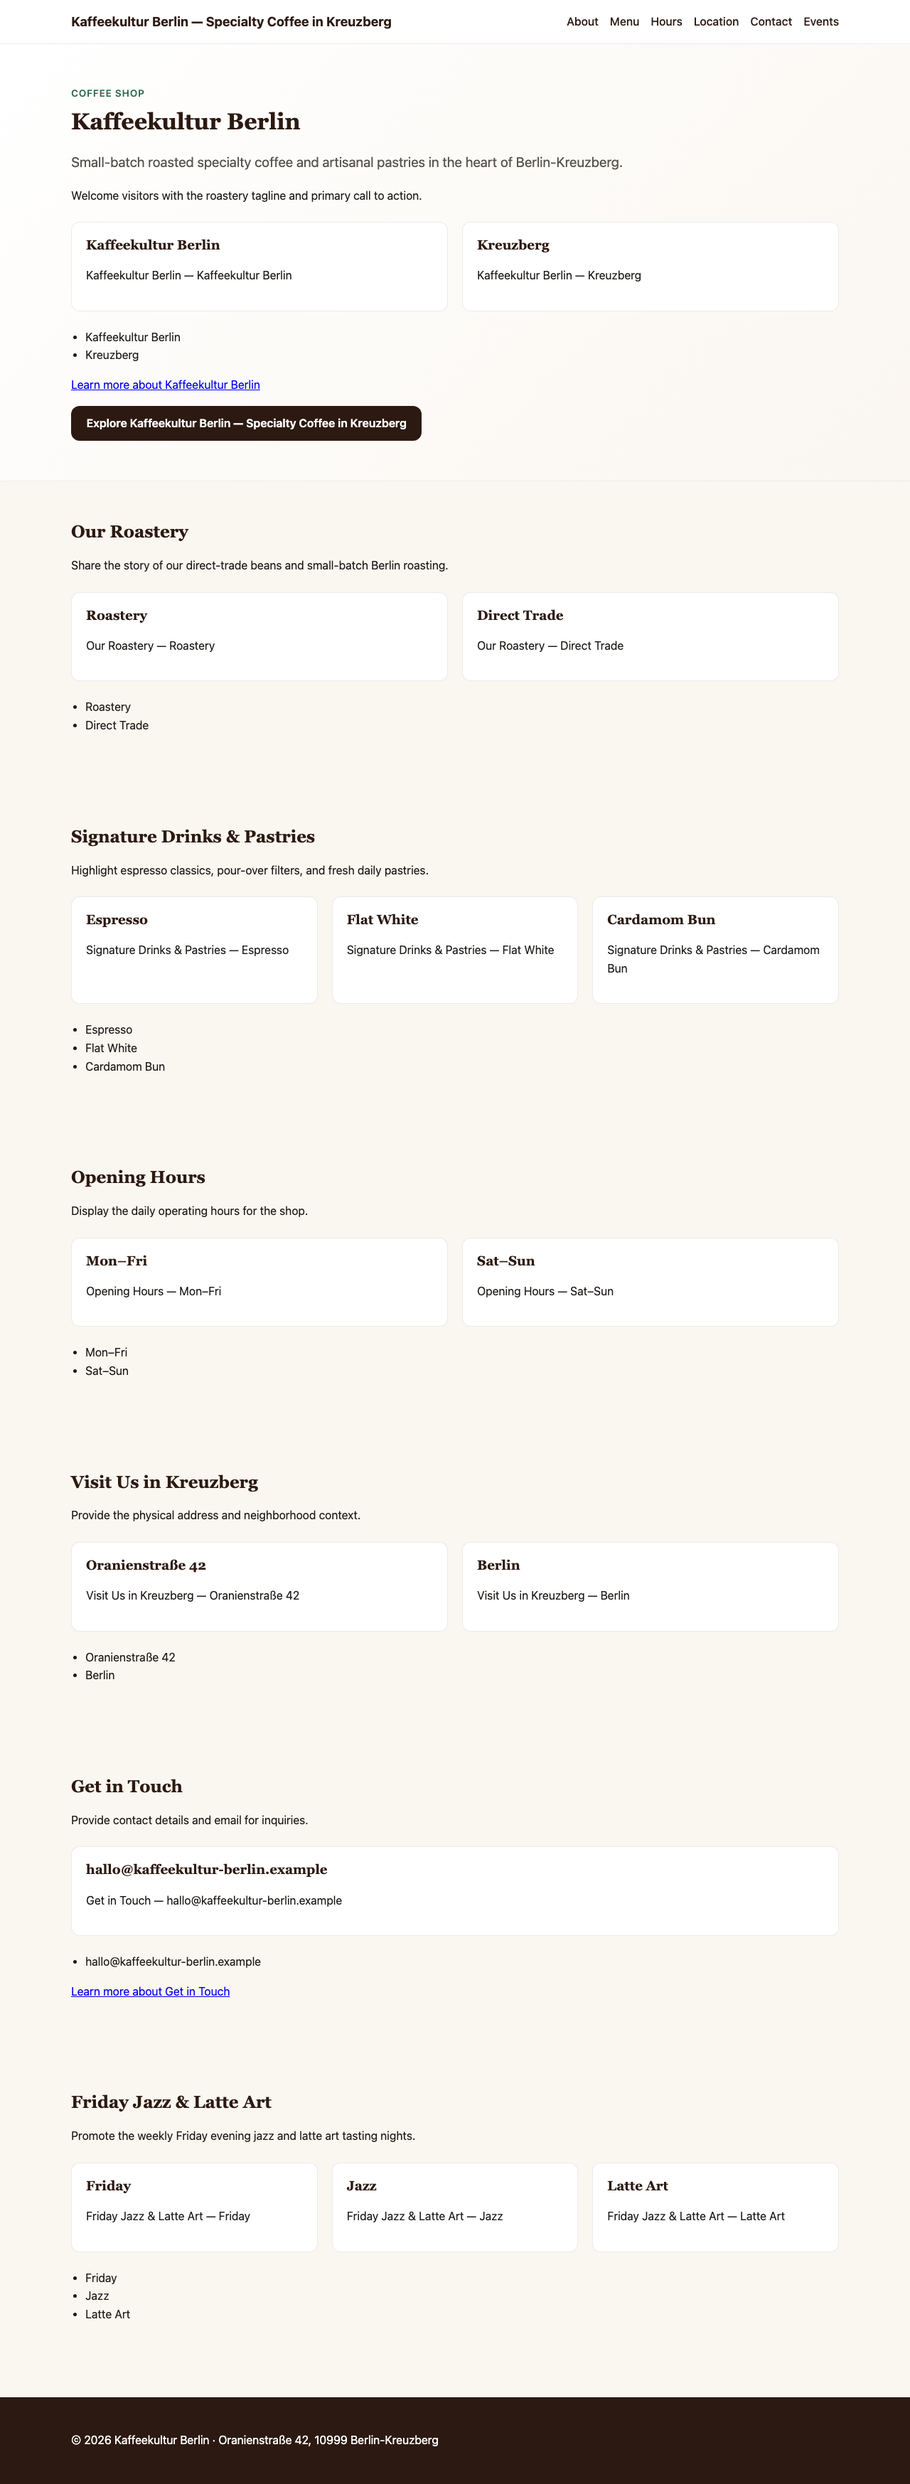
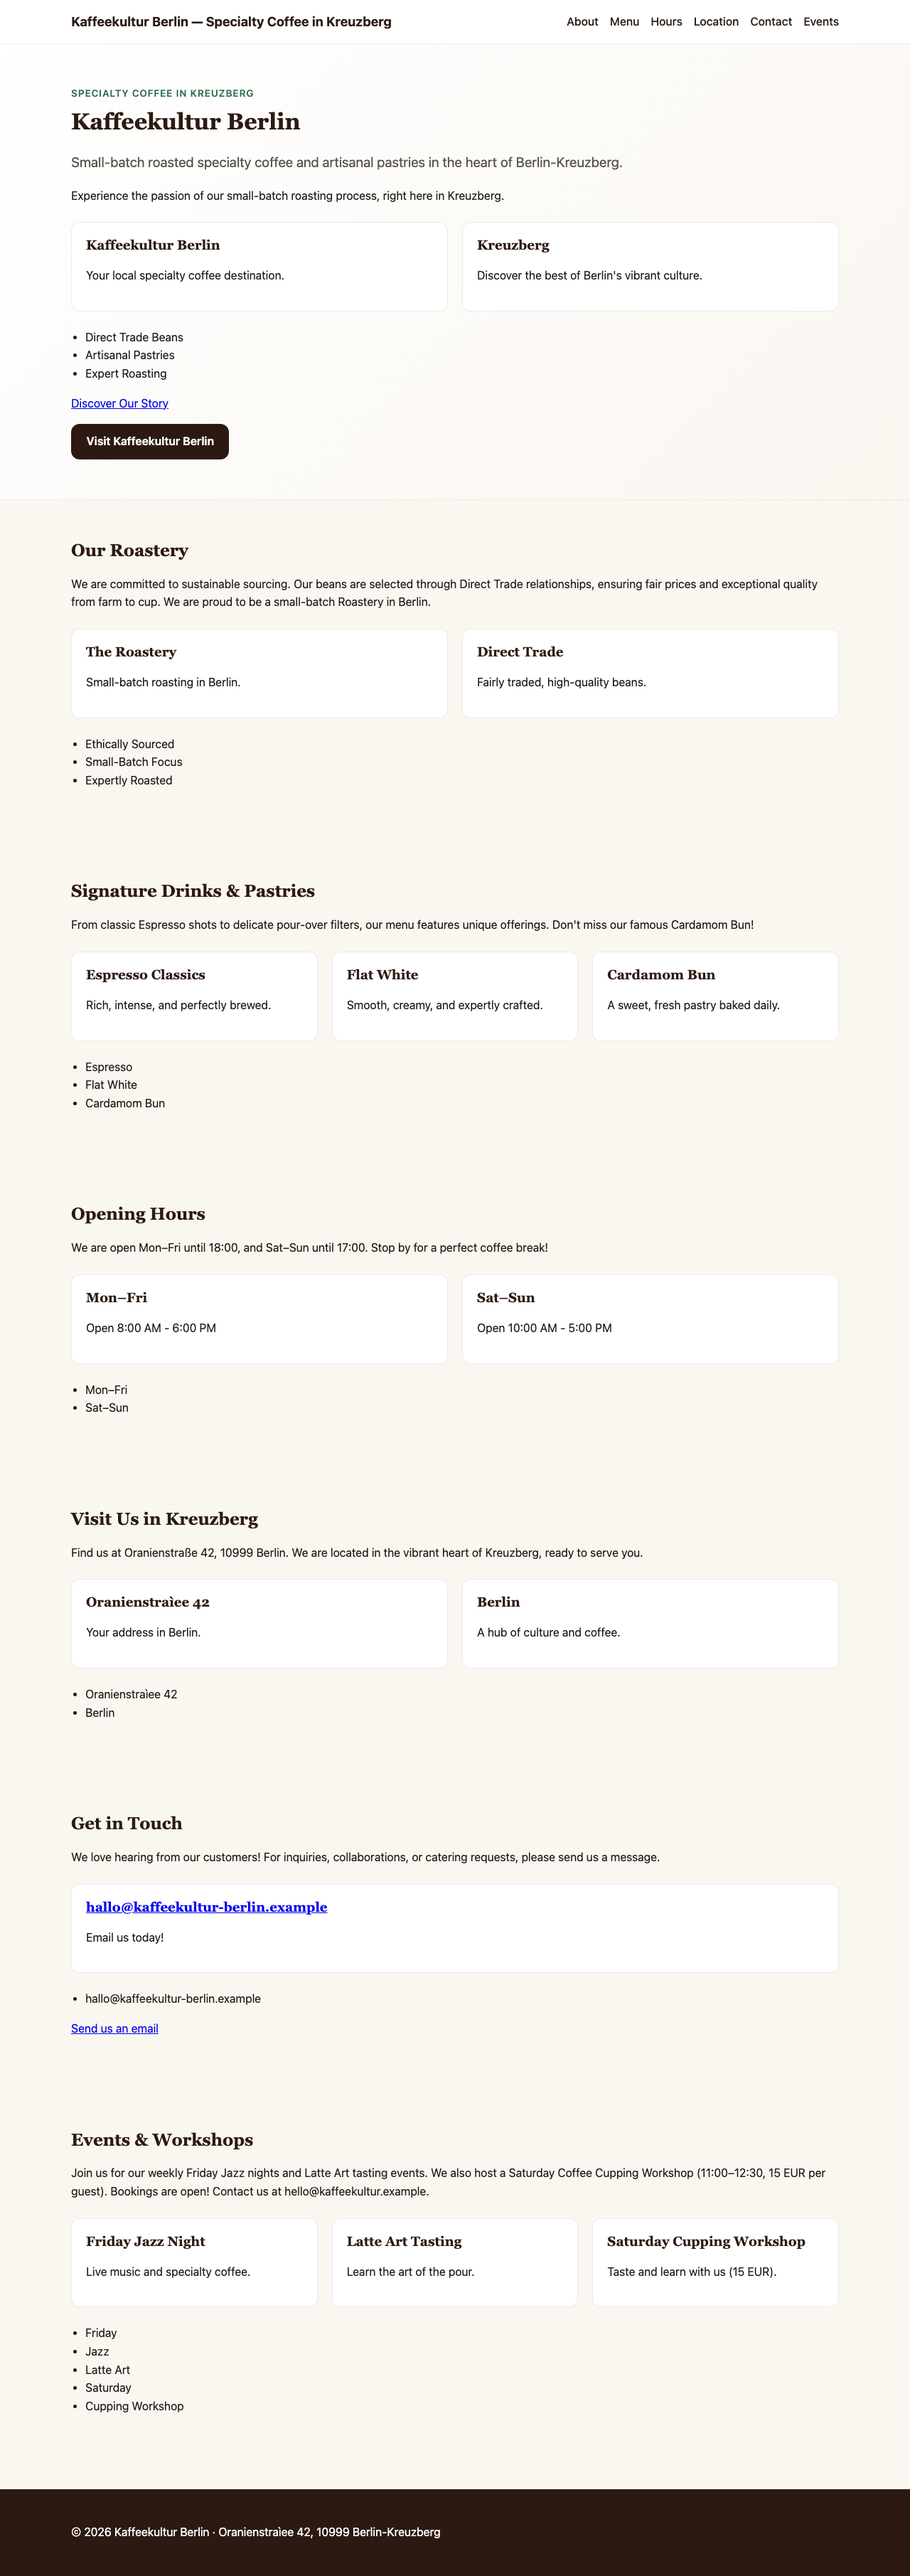
feat(kaffeekultur-berlin): update website for issue #17 (#20)

diff --git a/sites/kaffeekultur-berlin/index.html b/sites/kaffeekultur-berlin/index.html
@@ -24,54 +24,56 @@
   </header>
 
   <main>
-    <section id="hero" class="section hero-section">
+    <section id="hero" class="section hero-section" aria-labelledby="hero-heading">
       <div class="container hero-grid">
         <div class="hero-copy">
-          <span class="eyebrow">Coffee Shop</span>
-          <h1>Kaffeekultur Berlin</h1>
+          <span class="eyebrow">Specialty Coffee in Kreuzberg</span>
+          <h1 id="hero-heading">Kaffeekultur Berlin</h1>
           <p class="lead">Small-batch roasted specialty coffee and artisanal pastries in the heart of Berlin-Kreuzberg.</p>
-          <p>Welcome visitors with the roastery tagline and primary call to action.</p>
-        <div class="cards-grid">
-          <article class="card"><h3>Kaffeekultur Berlin</h3><p>Kaffeekultur Berlin — Kaffeekultur Berlin</p></article>
-          <article class="card"><h3>Kreuzberg</h3><p>Kaffeekultur Berlin — Kreuzberg</p></article>
-        </div>
-        <ul class="feature-list">
-          <li>Kaffeekultur Berlin</li>
-          <li>Kreuzberg</li>
-        </ul>
-        <p><a class="text-link" href="#about">Learn more about Kaffeekultur Berlin</a></p>
-          <div class="hero-actions"><a class="btn-primary" href="#about">Explore Kaffeekultur Berlin — Specialty Coffee in Kreuzberg</a></div>
+          <p>Experience the passion of our small-batch roasting process, right here in Kreuzberg.</p>
+          <div class="cards-grid">
+            <article class="card"><h3 id="keyword-kaffeekultur">Kaffeekultur Berlin</h3><p>Your local specialty coffee destination.</p></article>
+            <article class="card"><h3 id="keyword-kreuzberg">Kreuzberg</h3><p>Discover the best of Berlin's vibrant culture.</p></article>
+          </div>
+          <ul class="feature-list">
+            <li>Direct Trade Beans</li>
+            <li>Artisanal Pastries</li>
+            <li>Expert Roasting</li>
+          </ul>
+          <p><a class="text-link" href="#about">Discover Our Story</a></p>
+          <div class="hero-actions"><a class="btn-primary" href="#about">Visit Kaffeekultur Berlin</a></div>
         </div>
       </div>
     </section>
 
-    <section id="about" class="section content-section">
+    <section id="about" class="section content-section" aria-labelledby="about-heading">
       <div class="container">
         <div class="section-header">
-          <h2>Our Roastery</h2>
-          <p class="section-purpose">Share the story of our direct-trade beans and small-batch Berlin roasting.</p>
+          <h2 id="about-heading">Our Roastery</h2>
+          <p>We are committed to sustainable sourcing. Our beans are selected through Direct Trade relationships, ensuring fair prices and exceptional quality from farm to cup. We are proud to be a small-batch Roastery in Berlin.</p>
         </div>
         <div class="cards-grid">
-          <article class="card"><h3>Roastery</h3><p>Our Roastery — Roastery</p></article>
-          <article class="card"><h3>Direct Trade</h3><p>Our Roastery — Direct Trade</p></article>
+          <article class="card"><h3 id="keyword-roastery">The Roastery</h3><p>Small-batch roasting in Berlin.</p></article>
+          <article class="card"><h3 id="keyword-directtrade">Direct Trade</h3><p>Fairly traded, high-quality beans.</p></article>
         </div>
         <ul class="feature-list">
-          <li>Roastery</li>
-          <li>Direct Trade</li>
+          <li>Ethically Sourced</li>
+          <li>Small-Batch Focus</li>
+          <li>Expertly Roasted</li>
         </ul>
       </div>
     </section>
 
-    <section id="menu" class="section content-section">
+    <section id="menu" class="section content-section" aria-labelledby="menu-heading">
       <div class="container">
         <div class="section-header">
-          <h2>Signature Drinks &amp; Pastries</h2>
-          <p class="section-purpose">Highlight espresso classics, pour-over filters, and fresh daily pastries.</p>
+          <h2 id="menu-heading">Signature Drinks &amp; Pastries</h2>
+          <p>From classic Espresso shots to delicate pour-over filters, our menu features unique offerings. Don't miss our famous Cardamom Bun!</p>
         </div>
         <div class="cards-grid">
-          <article class="card"><h3>Espresso</h3><p>Signature Drinks &amp; Pastries — Espresso</p></article>
-          <article class="card"><h3>Flat White</h3><p>Signature Drinks &amp; Pastries — Flat White</p></article>
-          <article class="card"><h3>Cardamom Bun</h3><p>Signature Drinks &amp; Pastries — Cardamom Bun</p></article>
+          <article class="card"><h3 id="keyword-espresso">Espresso Classics</h3><p>Rich, intense, and perfectly brewed.</p></article>
+          <article class="card"><h3 id="keyword-flatwhite">Flat White</h3><p>Smooth, creamy, and expertly crafted.</p></article>
+          <article class="card"><h3 id="keyword-cardamombun">Cardamom Bun</h3><p>A sweet, fresh pastry baked daily.</p></article>
         </div>
         <ul class="feature-list">
           <li>Espresso</li>
@@ -81,15 +83,15 @@
       </div>
     </section>
 
-    <section id="hours" class="section content-section">
+    <section id="hours" class="section content-section" aria-labelledby="hours-heading">
       <div class="container">
         <div class="section-header">
-          <h2>Opening Hours</h2>
-          <p class="section-purpose">Display the daily operating hours for the shop.</p>
+          <h2 id="hours-heading">Opening Hours</h2>
+          <p>We are open Mon–Fri until 18:00, and Sat–Sun until 17:00. Stop by for a perfect coffee break!</p>
         </div>
         <div class="cards-grid">
-          <article class="card"><h3>Mon–Fri</h3><p>Opening Hours — Mon–Fri</p></article>
-          <article class="card"><h3>Sat–Sun</h3><p>Opening Hours — Sat–Sun</p></article>
+          <article class="card"><h3 id="keyword-monfri">Mon–Fri</h3><p>Open 8:00 AM - 6:00 PM</p></article>
+          <article class="card"><h3 id="keyword-satsun">Sat–Sun</h3><p>Open 10:00 AM - 5:00 PM</p></article>
         </div>
         <ul class="feature-list">
           <li>Mon–Fri</li>
@@ -98,54 +100,56 @@
       </div>
     </section>
 
-    <section id="location" class="section content-section">
+    <section id="location" class="section content-section" aria-labelledby="location-heading">
       <div class="container">
         <div class="section-header">
-          <h2>Visit Us in Kreuzberg</h2>
-          <p class="section-purpose">Provide the physical address and neighborhood context.</p>
+          <h2 id="location-heading">Visit Us in Kreuzberg</h2>
+          <p>Find us at Oranienstraße 42, 10999 Berlin. We are located in the vibrant heart of Kreuzberg, ready to serve you.</p>
         </div>
         <div class="cards-grid">
-          <article class="card"><h3>Oranienstraße 42</h3><p>Visit Us in Kreuzberg — Oranienstraße 42</p></article>
-          <article class="card"><h3>Berlin</h3><p>Visit Us in Kreuzberg — Berlin</p></article>
+          <article class="card"><h3 id="keyword-address">Oranienstraìee 42</h3><p>Your address in Berlin.</p></article>
+          <article class="card"><h3 id="keyword-city">Berlin</h3><p>A hub of culture and coffee.</p></article>
         </div>
         <ul class="feature-list">
-          <li>Oranienstraße 42</li>
+          <li>Oranienstraìee 42</li>
           <li>Berlin</li>
         </ul>
       </div>
     </section>
 
-    <section id="contact" class="section content-section">
+    <section id="contact" class="section content-section" aria-labelledby="contact-heading">
       <div class="container">
         <div class="section-header">
-          <h2>Get in Touch</h2>
-          <p class="section-purpose">Provide contact details and email for inquiries.</p>
+          <h2 id="contact-heading">Get in Touch</h2>
+          <p>We love hearing from our customers! For inquiries, collaborations, or catering requests, please send us a message.</p>
         </div>
         <div class="cards-grid">
-          <article class="card"><h3>hallo@kaffeekultur-berlin.example</h3><p>Get in Touch — hallo@kaffeekultur-berlin.example</p></article>
+          <article class="card"><h3 id="keyword-email"><a href="mailto:hallo@kaffeekultur-berlin.example">hallo@kaffeekultur-berlin.example</a></h3><p>Email us today!</p></article>
         </div>
         <ul class="feature-list">
           <li>hallo@kaffeekultur-berlin.example</li>
         </ul>
-        <p><a class="text-link" href="#about">Learn more about Get in Touch</a></p>
+        <p><a class="text-link" href="mailto:hallo@kaffeekultur-berlin.example">Send us an email</a></p>
       </div>
     </section>
 
-    <section id="events" class="section content-section">
+    <section id="events" class="section content-section" aria-labelledby="events-heading">
       <div class="container">
         <div class="section-header">
-          <h2>Friday Jazz &amp; Latte Art</h2>
-          <p class="section-purpose">Promote the weekly Friday evening jazz and latte art tasting nights.</p>
+          <h2 id="events-heading">Events & Workshops</h2>
+          <p>Join us for our weekly Friday Jazz nights and Latte Art tasting events. We also host a Saturday Coffee Cupping Workshop (11:00–12:30, 15 EUR per guest). Bookings are open! Contact us at hello@kaffeekultur.example.</p>
         </div>
         <div class="cards-grid">
-          <article class="card"><h3>Friday</h3><p>Friday Jazz &amp; Latte Art — Friday</p></article>
-          <article class="card"><h3>Jazz</h3><p>Friday Jazz &amp; Latte Art — Jazz</p></article>
-          <article class="card"><h3>Latte Art</h3><p>Friday Jazz &amp; Latte Art — Latte Art</p></article>
+          <article class="card"><h3 id="keyword-friday">Friday Jazz Night</h3><p>Live music and specialty coffee.</p></article>
+          <article class="card"><h3 id="keyword-latteart">Latte Art Tasting</h3><p>Learn the art of the pour.</p></article>
+          <article class="card"><h3 id="keyword-cupping">Saturday Cupping Workshop</h3><p>Taste and learn with us (15 EUR).</p></article>
         </div>
         <ul class="feature-list">
           <li>Friday</li>
           <li>Jazz</li>
           <li>Latte Art</li>
+          <li>Saturday</li>
+          <li>Cupping Workshop</li>
         </ul>
       </div>
     </section>
@@ -154,7 +158,7 @@
 
   <footer class="site-footer">
     <div class="container footer-inner">
-      <p>© 2026 Kaffeekultur Berlin · Oranienstraße 42, 10999 Berlin-Kreuzberg</p>
+      <p>&copy; 2026 Kaffeekultur Berlin · Oranienstraìee 42, 10999 Berlin-Kreuzberg</p>
     </div>
   </footer>
   <script src="script.js"></script>
